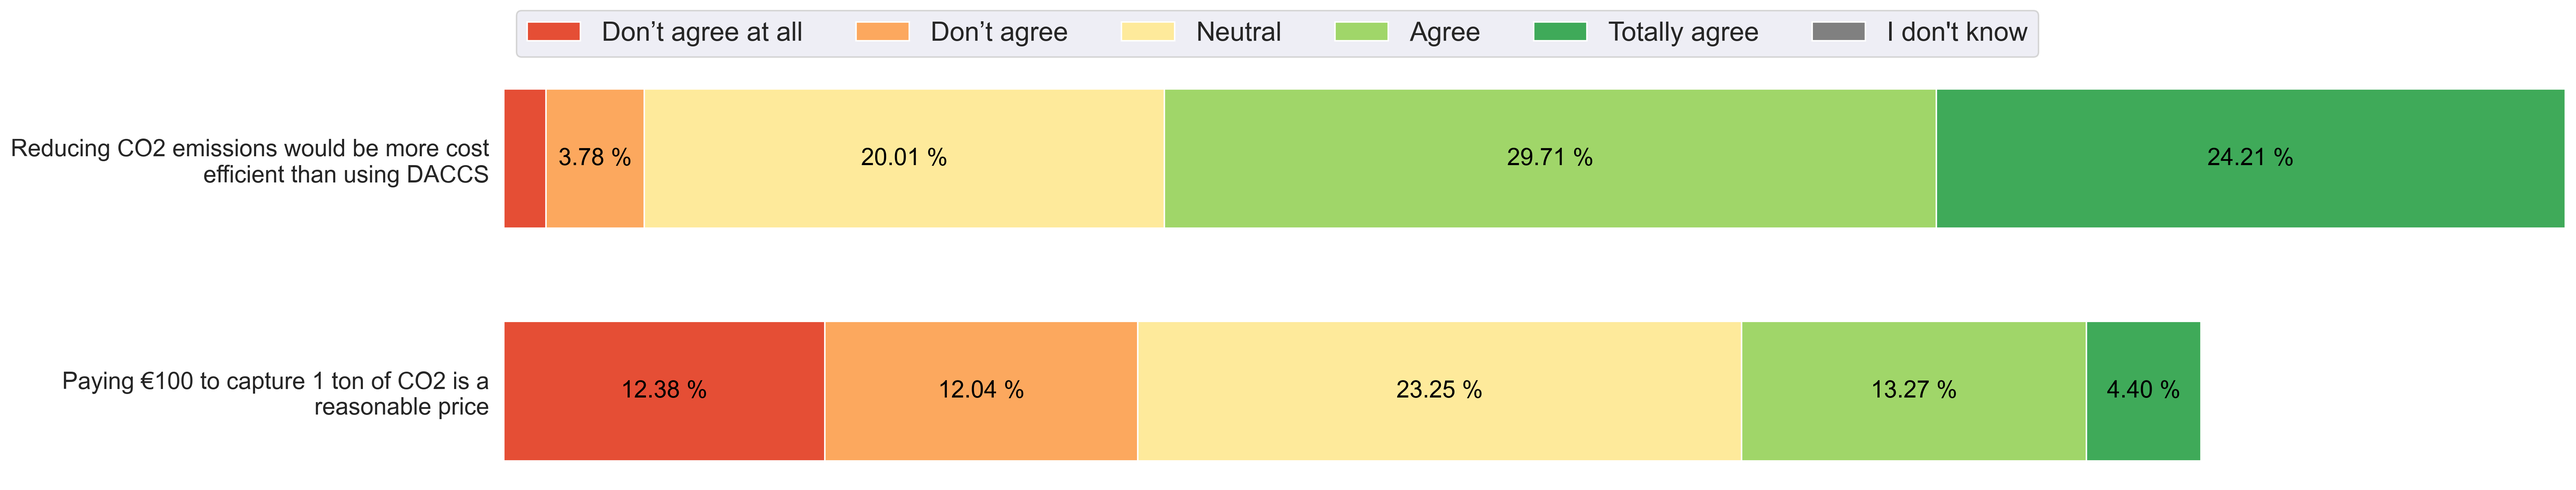
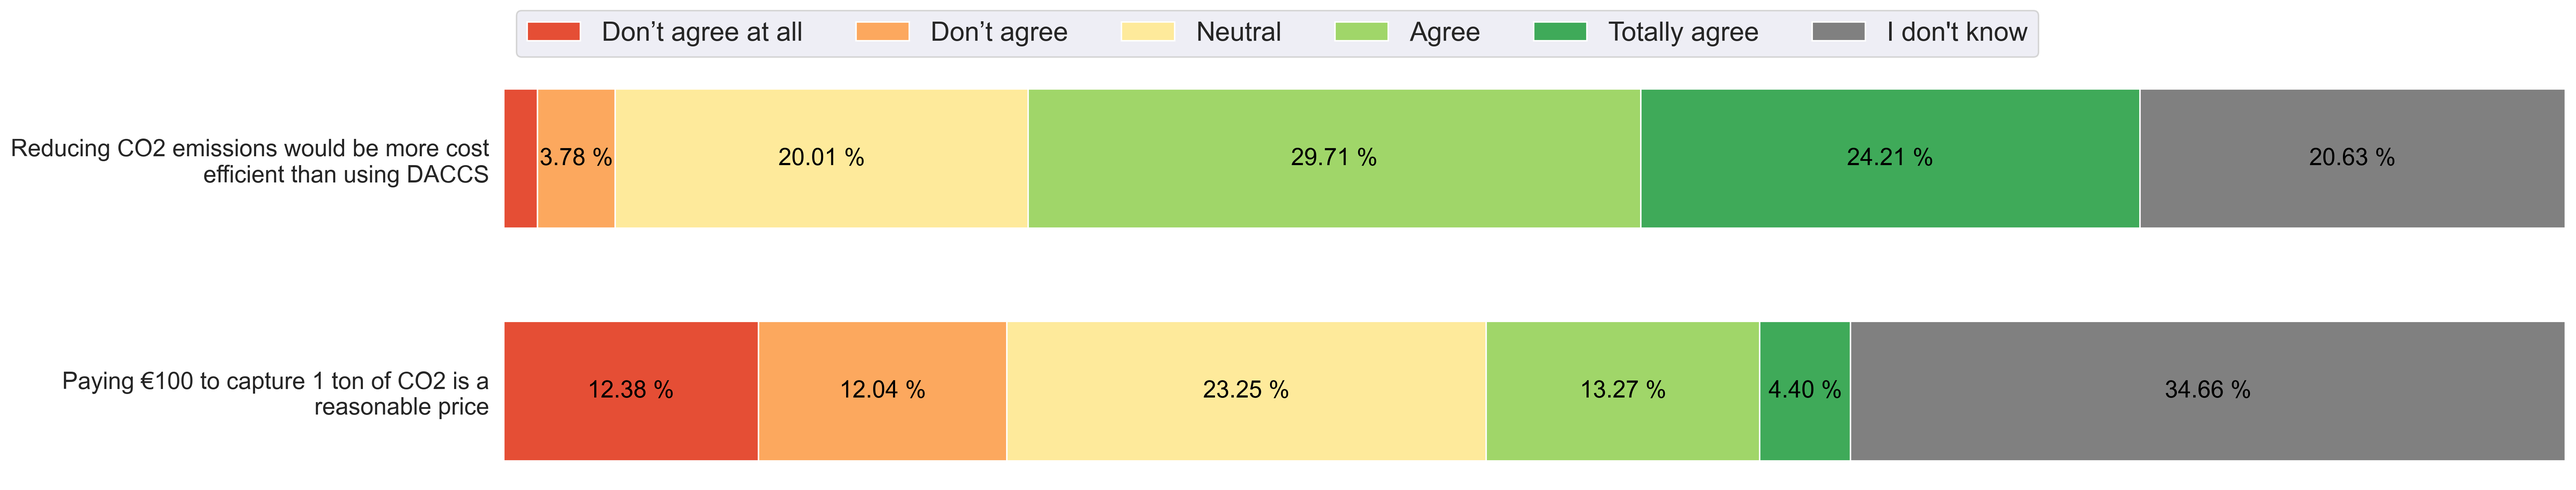
fix labels and missing bars

diff --git a/dacstore/config.py b/dacstore/config.py
@@ -389,17 +389,17 @@ translation_columns = {
     "Menschliche Aktivitäten sind die Hauptursache des Klimawandels.": "Human activities are the main cause of climate change",
     "Wir alle sollten uns bemühen, unseren CO2-Ausstoß zu reduzieren.": "We should all make an effort to reduce our CO2 emissions",
     "Haben Sie schon von Technologien zur Entnahme von Kohlendioxid (CO2) aus der Luft (auf Englisch Direct Air Capture (DAC)) gehört?": "Have you heard about Direct Air Capture and Storage (DACCS) technologies?",
-    "Wie gut sind ihre Kenntnisse dieser Technologien?": "How would you rate your knowledge of DACCS?",
+    "Wie gut sind ihre Kenntnisse dieser Technologien?": "How would you rate your knowledge of DAC?",
     "Haben Sie schon von Kohlendioxid (CO2)-Speicherung gehört?": "Have you heard about CO2 storage?",
     "Wie gut sind ihre Kenntnisse der CO2-Speicherungstechnologien?": "How would you rate your knowledge of CO2 Storage?",
-    "Direct Air Capture (DAC)": "Initial DACCS Support",
+    "Direct Air Capture (DAC)": "Initial DAC Support",
     "CO2-Speicherung": "Initial Storage Support",
     "Welche Hauptemotion empfinden Sie gegenüber DAC-Technologien?": "What primary emotion do you feel regarding DACCS technologies?",
     "DAC ist eine ausgereifte saubere Technologie.": "DACCS is a mature clean technology",
     "Menschen sollten die Natur nicht auf diese Weise manipulieren.": "Humans should not be tampering with nature in this way",
     "Ich denke nicht, dass das Einbringen von CO2 in den Boden eine gute Idee ist.": "I don’t think that injecting CO2 into the ground is a good idea",
     "Versuche, das Klimasystem durch die Anwendung von DAC zu beeinflussen, zeugen von menschlichem Hochmut.": "Trying to influence the climate system by using DACCS reflects human arrogance",
-    "DAC Anlage": "DACCS facility",
+    "DAC Anlage": "DAC facility",
     "CO2-Speicherung im Boden": "CO2 storage underground",
     "CO2-Speicherung im Meeresboden": "CO2 storage in the seabed",
     "LKW": "Truck",
@@ -413,7 +413,7 @@ translation_columns = {
     "DAC könnte dazu beitragen, schwer vermeidbare Emissionen aus Sektoren wie Landwirtschaft oder Zementproduktion zu entnehmen.": "DACCS could help capture emissions from hard-to-abate sectors such as agriculture or cement production",
     "Die Implementierung von DAC als Teil einer Gesamtstrategie kann Deutschland dabei helfen, seine Klimaziele zu erreichen und den Klimawandel auf 1,5 °C zu begrenzen.": "Including DACCS as a part of an overall strategy can help Germany achieve its climate goals and limit climate change to 1.5°C",
     "DAC ist eine effiziente Technologie zur Bekämpfung des Klimawandels.": "DACCS is an efficient technology to fight climate change",
-    "DAC ist sicher.": "DACCS is a safe technology",
+    "DAC ist sicher.": "DAC is a safe technology",
     "CO2-Speicherung ist sicher.": "CO2 storage is a safe technology",
     "CO2-Speicherung könnte Erdbeben verursachen.": "CO2 storage could cause earthquakes",
     "CO2-Speicherung könnte Explosionen verursachen.": "CO2 storage could cause explosions",
@@ -425,7 +425,7 @@ translation_columns = {
     "Europäische Union": "European Union",
     "Nichtregierungs- und Umweltschutzorganisationen": "NGOs and environmental organizations",
     "Medien": "Media",
-    "Direct Air Capture (DAC).1": "Final DACCS Support",
+    "Direct Air Capture (DAC).1": "Final DAC Support",
     "CO2-Speicherung.1": "Final Storage Support",
     "Ihre E-Mail Adresse": "Engagement",
     "Inwiefern vertrauen Sie darauf, dass diese Gruppen im Interesse der Gesellschaft handeln werden?": "How much do you trust in these groups to act in the interest of society?",
@@ -451,11 +451,11 @@ translation_answers = {
     "Stimme zu": "Agree",
     "Stimme ich zu": "Agree",
     "Stimme voll und ganz zu": "Totally agree",
-    "Weiß nicht": "I dont know",
+    "Weiß nicht": "I don't know",
     "Männlich": "Male",
     "Weiblich": "Female",
     "Divers": "Diverse",
-    "18-19": "18-19",
+    "18-19": "18 - 19",
     "20 - 29": "20 - 29",
     "30 - 39": "30 - 39",
     "40 - 49": "40 - 49",

diff --git a/scripts/create-likert-plots.py b/scripts/create-likert-plots.py
@@ -186,13 +186,13 @@ def plot_knowledge(df, fname="figs/knowledge.png"):
     STORAGE_KNOWLEDGE_DE = (
         "Wie gut sind ihre Kenntnisse der CO2-Speicherungstechnologien?"
     )
-    DAC_KNOWLEDGE_EN = "How would you rate your knowledge of DACCS?"
+    DAC_KNOWLEDGE_EN = "How would you rate your knowledge of DAC?"
     STORAGE_KNOWLEDGE_EN = "How would you rate your knowledge of CO2 Storage?"
 
     labels = {
         DAC_KNOWLEDGE_DE: "Wie gut sind ihre Kenntnisse von Technologien\n zur Entnahme von Kohlendioxid (CO2) aus der Luft?",
         STORAGE_KNOWLEDGE_DE: "Wie gut sind ihre Kenntnisse\n der CO2-Speicherungstechnologien?",
-        DAC_KNOWLEDGE_EN: "How would you rate your\n knowledge of DACCS?",
+        DAC_KNOWLEDGE_EN: "How would you rate your\n knowledge of DAC?",
         STORAGE_KNOWLEDGE_EN: "How would you rate your\n knowledge of CO2 Storage?",
     }
 
@@ -228,8 +228,8 @@ def plot_support(df, fname):
         Saves a PNG to `fname`.
     """
     acceptance = [
-        "Initial DACCS Support",
-        "Final DACCS Support",
+        "Initial DAC Support",
+        "Final DAC Support",
         "Initial Storage Support",
         "Final Storage Support",
     ]
@@ -394,8 +394,8 @@ def plot_maturity(df, fname):
         scale="agreement_en",
         colors=agreement_cmap,
         dpi=dpi,
-        # height=0.8,
-        # figsize=(12, 6),
+        height=0.2,
+        figsize=(25, 2),
         # title="Perception of DAC technology maturity",
     )
 
